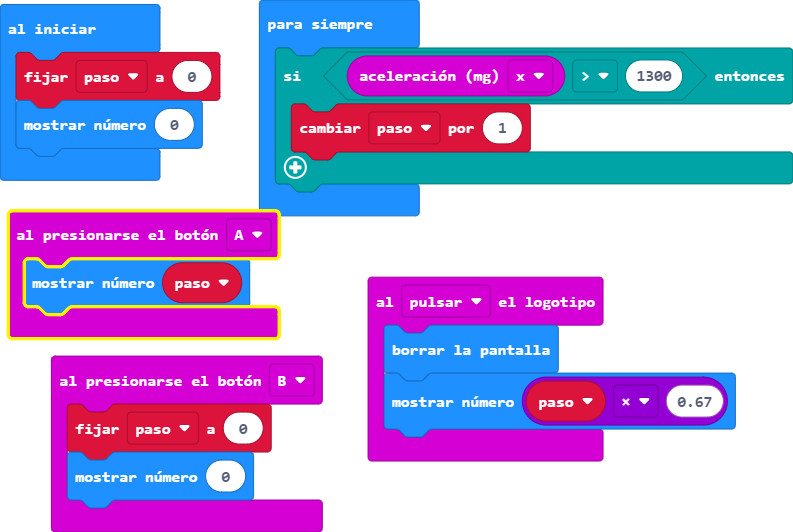
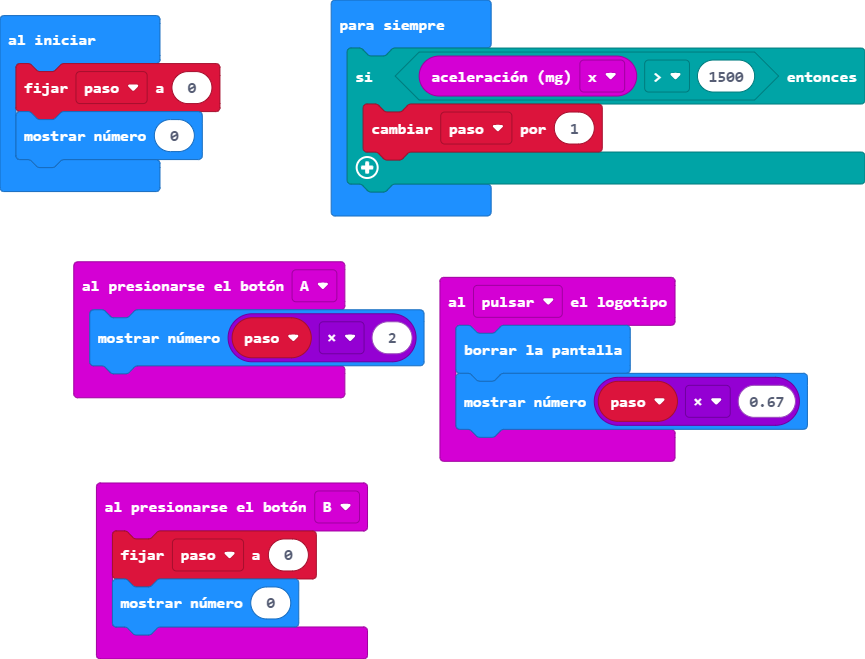
Actualizar main.blocks, main.ts

diff --git a/main.ts b/main.ts
@@ -3,7 +3,7 @@ input.onLogoEvent(TouchButtonEvent.Pressed, function () {
     basic.showNumber(paso * 0.67)
 })
 input.onButtonPressed(Button.A, function () {
-    basic.showNumber(paso)
+    basic.showNumber(paso * 2)
 })
 input.onButtonPressed(Button.B, function () {
     paso = 0
@@ -13,7 +13,7 @@ let paso = 0
 paso = 0
 basic.showNumber(0)
 basic.forever(function () {
-    if (input.acceleration(Dimension.X) > 1300) {
+    if (input.acceleration(Dimension.X) > 1500) {
         paso += 1
     }
 })
